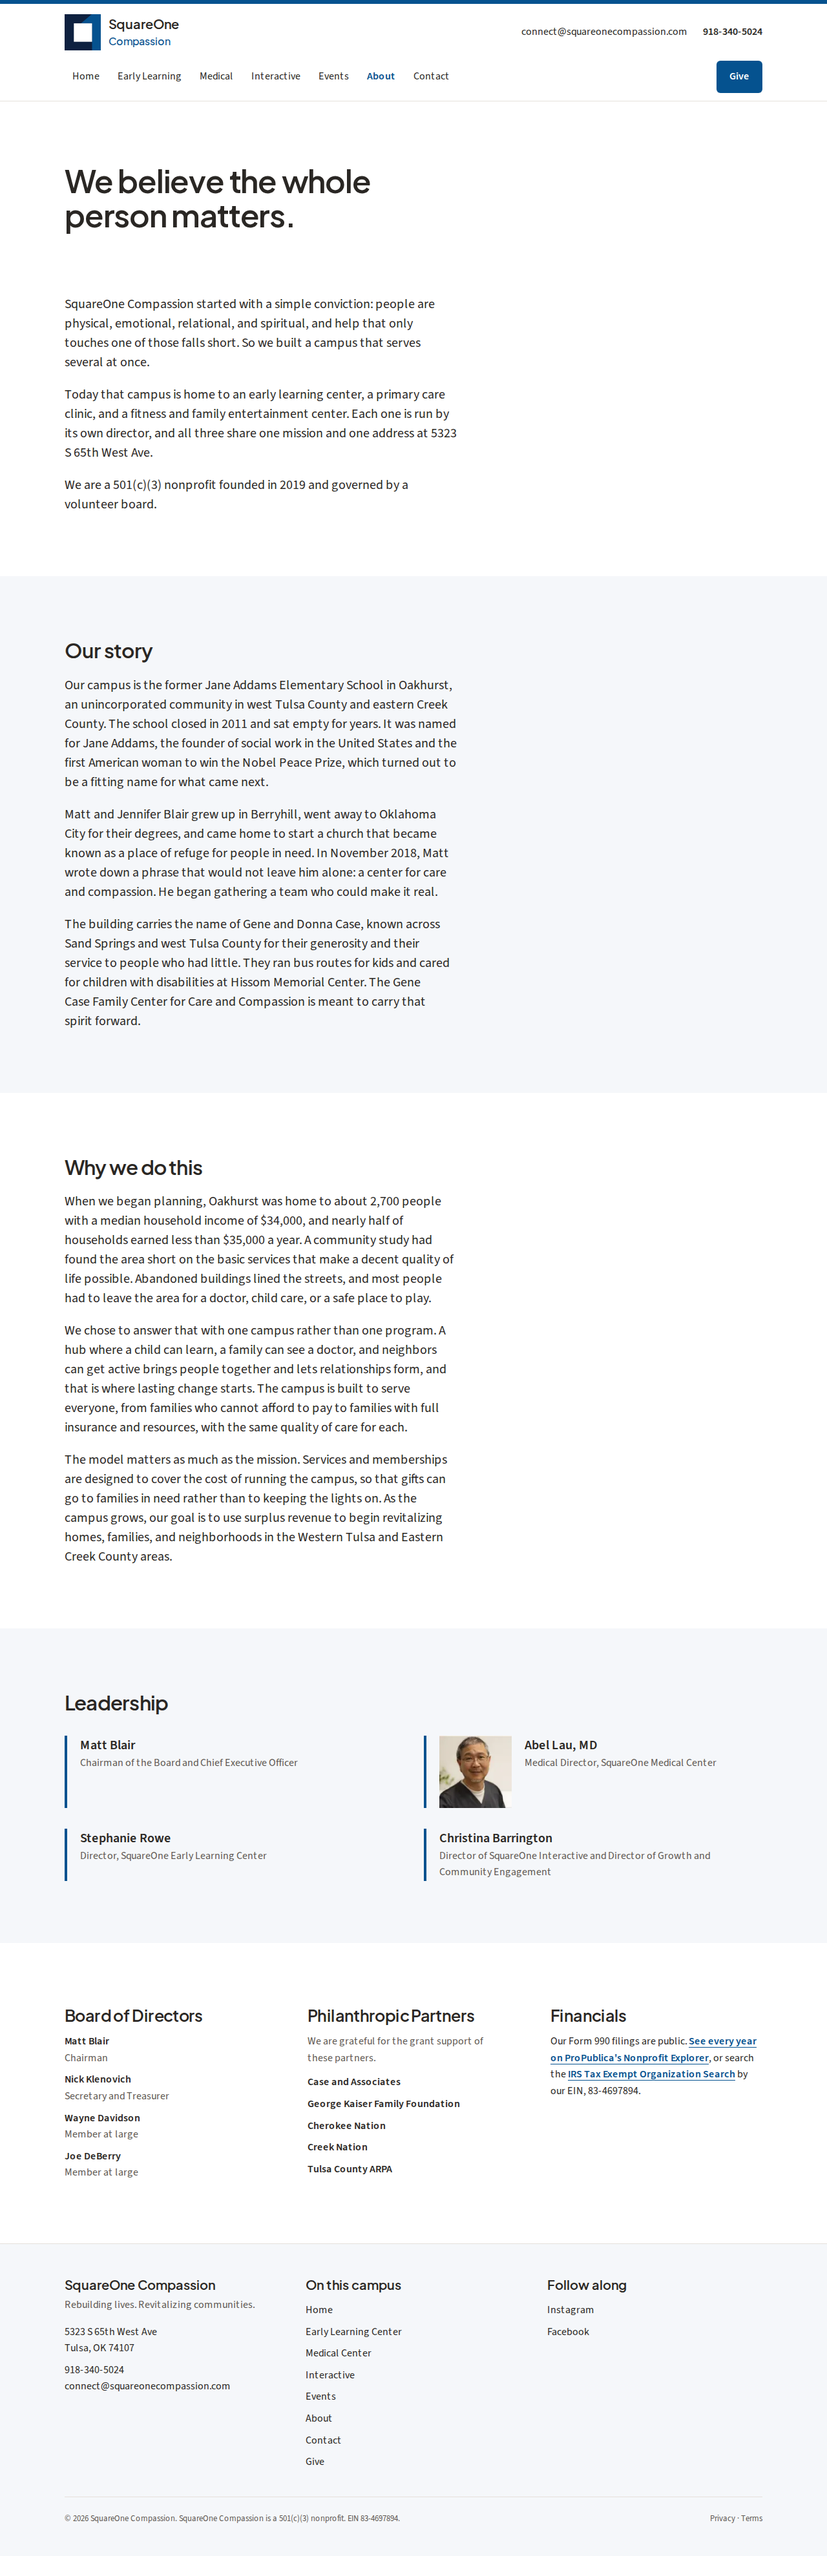
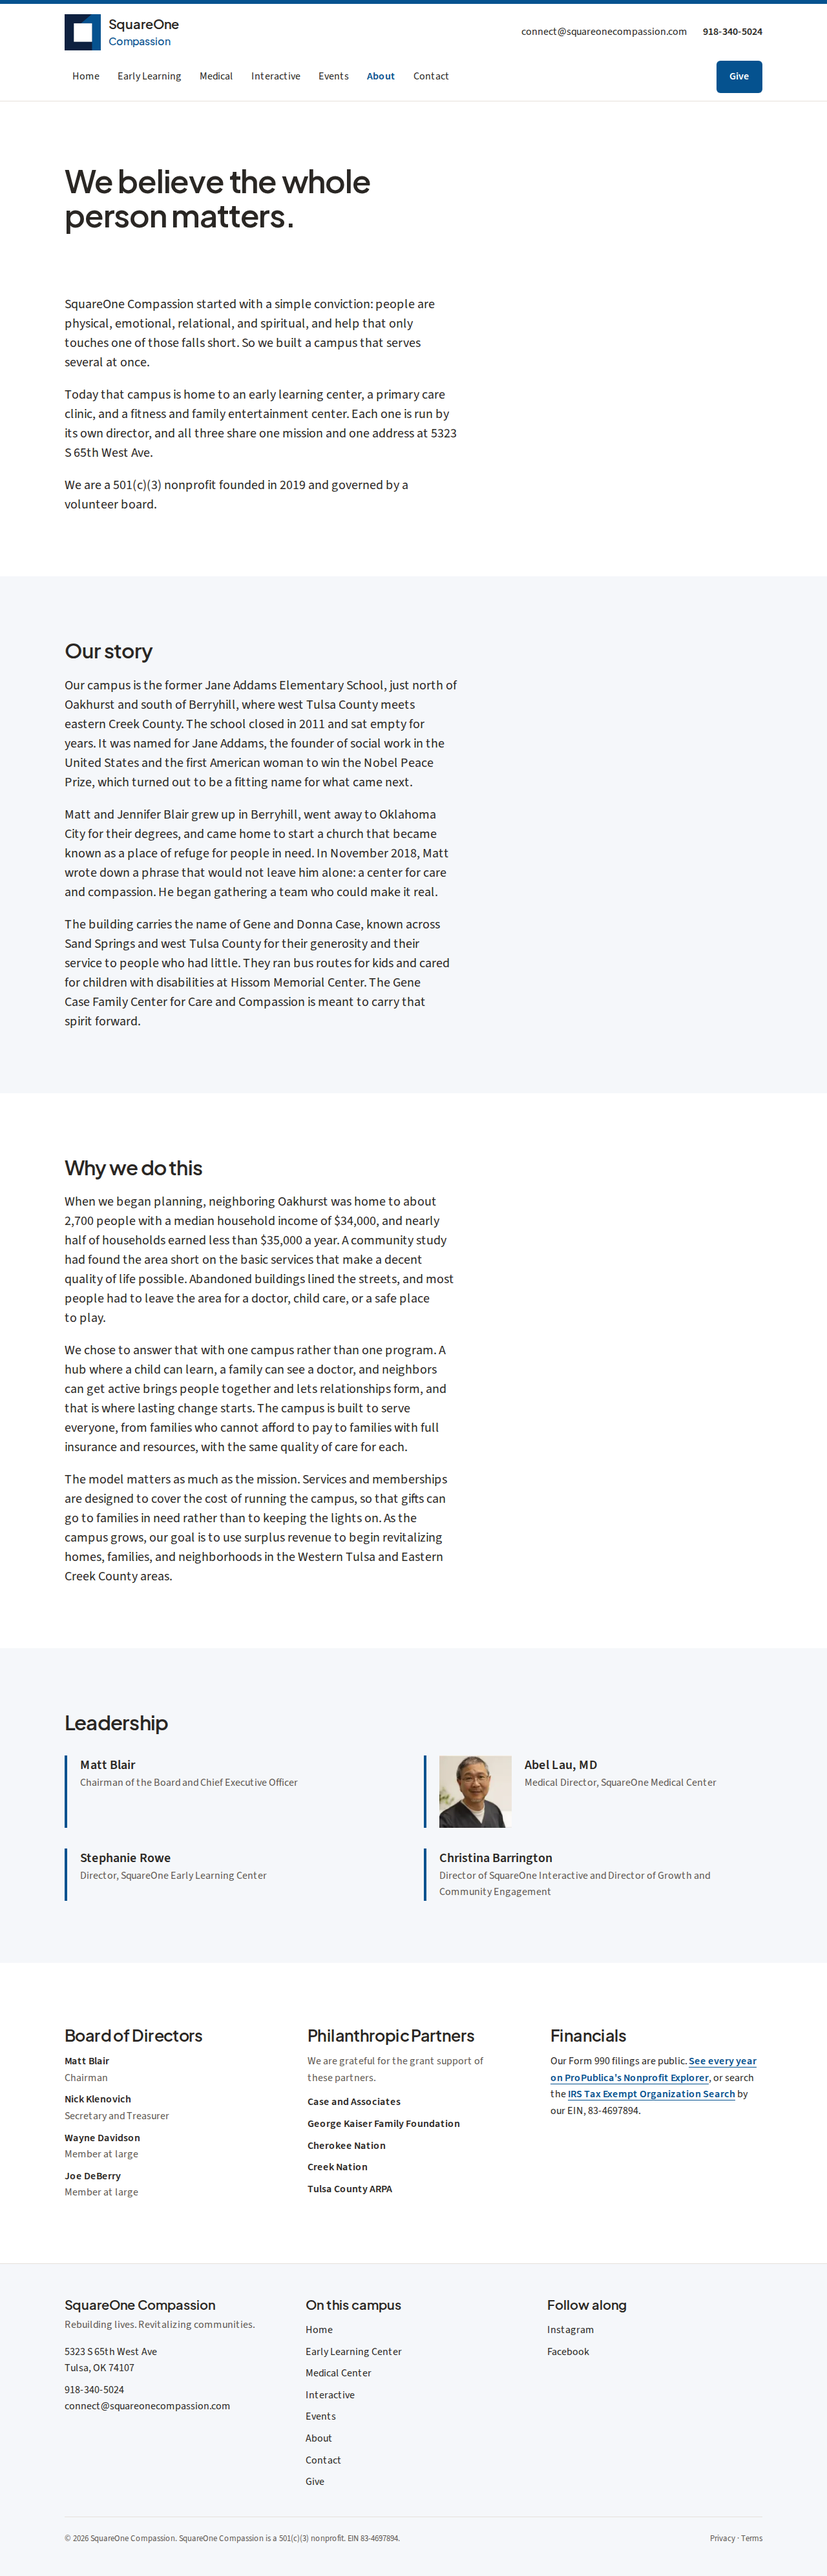
About: the campus sits north of Oakhurst and south of Berryhill
The building is not in Oakhurst. The story now places it between the two
communities, and the figures sentence names neighboring Oakhurst.

Claude-Session: https://claude.ai/code/session_01Dy1NBE1CDjARVuM4emY1ru

diff --git a/app/about/page.tsx b/app/about/page.tsx
@@ -37,7 +37,7 @@ export default function AboutPage() {
         <h2 className="text-2xl">Our story</h2>
         <div className="prose-block mt-5 space-y-5 text-lg">
           <p>
-            Our campus is the former Jane Addams Elementary School in Oakhurst, an unincorporated community in west Tulsa County and eastern Creek County. The school closed in 2011 and sat empty for years. It was named for Jane Addams, the founder of social work in the United States and the first American woman to win the Nobel Peace Prize, which turned out to be a fitting name for what came next.
+            Our campus is the former Jane Addams Elementary School, just north of Oakhurst and south of Berryhill, where west Tulsa County meets eastern Creek County. The school closed in 2011 and sat empty for years. It was named for Jane Addams, the founder of social work in the United States and the first American woman to win the Nobel Peace Prize, which turned out to be a fitting name for what came next.
           </p>
           <p>
             Matt and Jennifer Blair grew up in Berryhill, went away to Oklahoma City for their degrees, and came home to start a church that became known as a place of refuge for people in need. In November 2018, Matt wrote down a phrase that would not leave him alone: a center for care and compassion. He began gathering a team who could make it real.
@@ -52,7 +52,7 @@ export default function AboutPage() {
         <h2 className="text-2xl">Why we do this</h2>
         <div className="prose-block mt-5 space-y-5 text-lg">
           <p>
-            When we began planning, Oakhurst was home to about 2,700 people with a median household income of $34,000, and nearly half of households earned less than $35,000 a year. A community study had found the area short on the basic services that make a decent quality of life possible. Abandoned buildings lined the streets, and most people had to leave the area for a doctor, child care, or a safe place to play.
+            When we began planning, neighboring Oakhurst was home to about 2,700 people with a median household income of $34,000, and nearly half of households earned less than $35,000 a year. A community study had found the area short on the basic services that make a decent quality of life possible. Abandoned buildings lined the streets, and most people had to leave the area for a doctor, child care, or a safe place to play.
           </p>
           <p>
             We chose to answer that with one campus rather than one program. A hub where a child can learn, a family can see a doctor, and neighbors can get active brings people together and lets relationships form, and that is where lasting change starts. The campus is built to serve everyone, from families who cannot afford to pay to families with full insurance and resources, with the same quality of care for each.

diff --git a/content/COPY.md b/content/COPY.md
@@ -77,7 +77,7 @@ We are a 501(c)(3) nonprofit founded in 2019 and governed by a volunteer board.
 
 **Our story** (from the original proposal, docs-source/business-plan.pdf)
 
-Our campus is the former Jane Addams Elementary School in Oakhurst, an unincorporated community in west Tulsa County and eastern Creek County. The school closed in 2011 and sat empty for years. It was named for Jane Addams, the founder of social work in the United States and the first American woman to win the Nobel Peace Prize, which turned out to be a fitting name for what came next.
+Our campus is the former Jane Addams Elementary School, just north of Oakhurst and south of Berryhill, where west Tulsa County meets eastern Creek County. The school closed in 2011 and sat empty for years. It was named for Jane Addams, the founder of social work in the United States and the first American woman to win the Nobel Peace Prize, which turned out to be a fitting name for what came next.
 
 Matt and Jennifer Blair grew up in Berryhill, went away to Oklahoma City for their degrees, and came home to start a church that became known as a place of refuge for people in need. In November 2018, Matt wrote down a phrase that would not leave him alone: a center for care and compassion. He began gathering a team who could make it real.
 
@@ -85,7 +85,7 @@ The building carries the name of Gene and Donna Case, known across Sand Springs 
 
 **Why we do this**
 
-When we began planning, Oakhurst was home to about 2,700 people with a median household income of $34,000, and nearly half of households earned less than $35,000 a year. A community study had found the area short on the basic services that make a decent quality of life possible. Abandoned buildings lined the streets, and most people had to leave the area for a doctor, child care, or a safe place to play.
+When we began planning, neighboring Oakhurst was home to about 2,700 people with a median household income of $34,000, and nearly half of households earned less than $35,000 a year. A community study had found the area short on the basic services that make a decent quality of life possible. Abandoned buildings lined the streets, and most people had to leave the area for a doctor, child care, or a safe place to play.
 
 We chose to answer that with one campus rather than one program. A hub where a child can learn, a family can see a doctor, and neighbors can get active brings people together and lets relationships form, and that is where lasting change starts. The campus is built to serve everyone, from families who cannot afford to pay to families with full insurance and resources, with the same quality of care for each.
 
